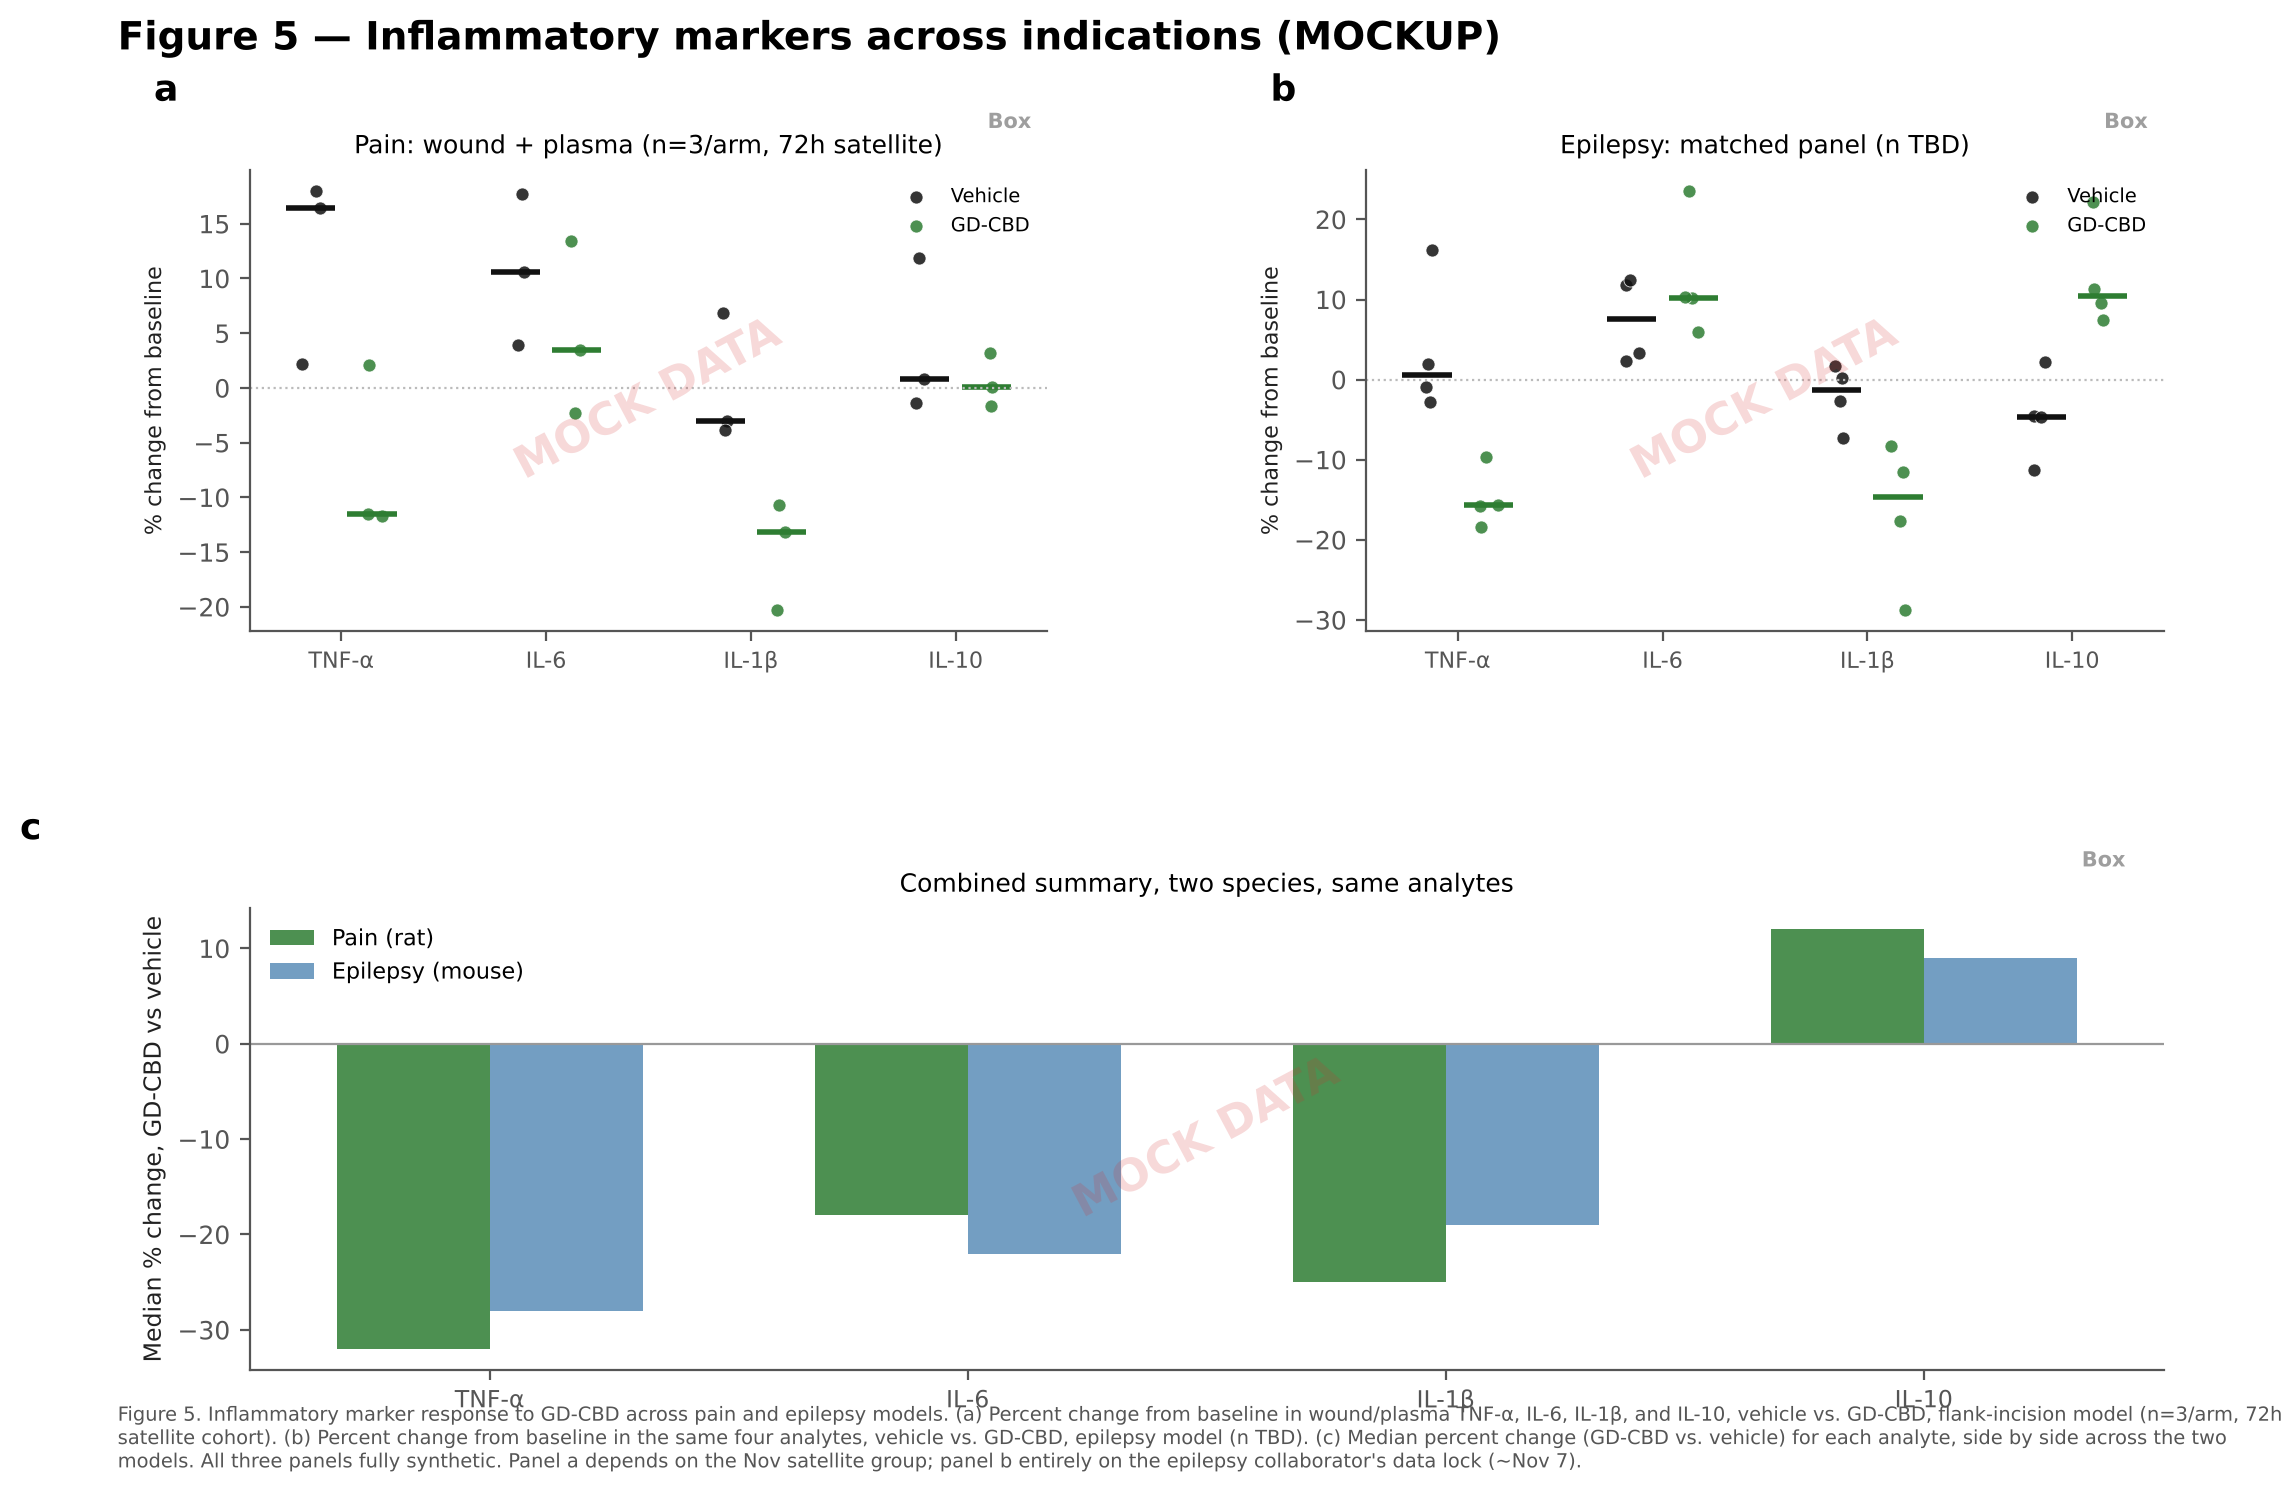
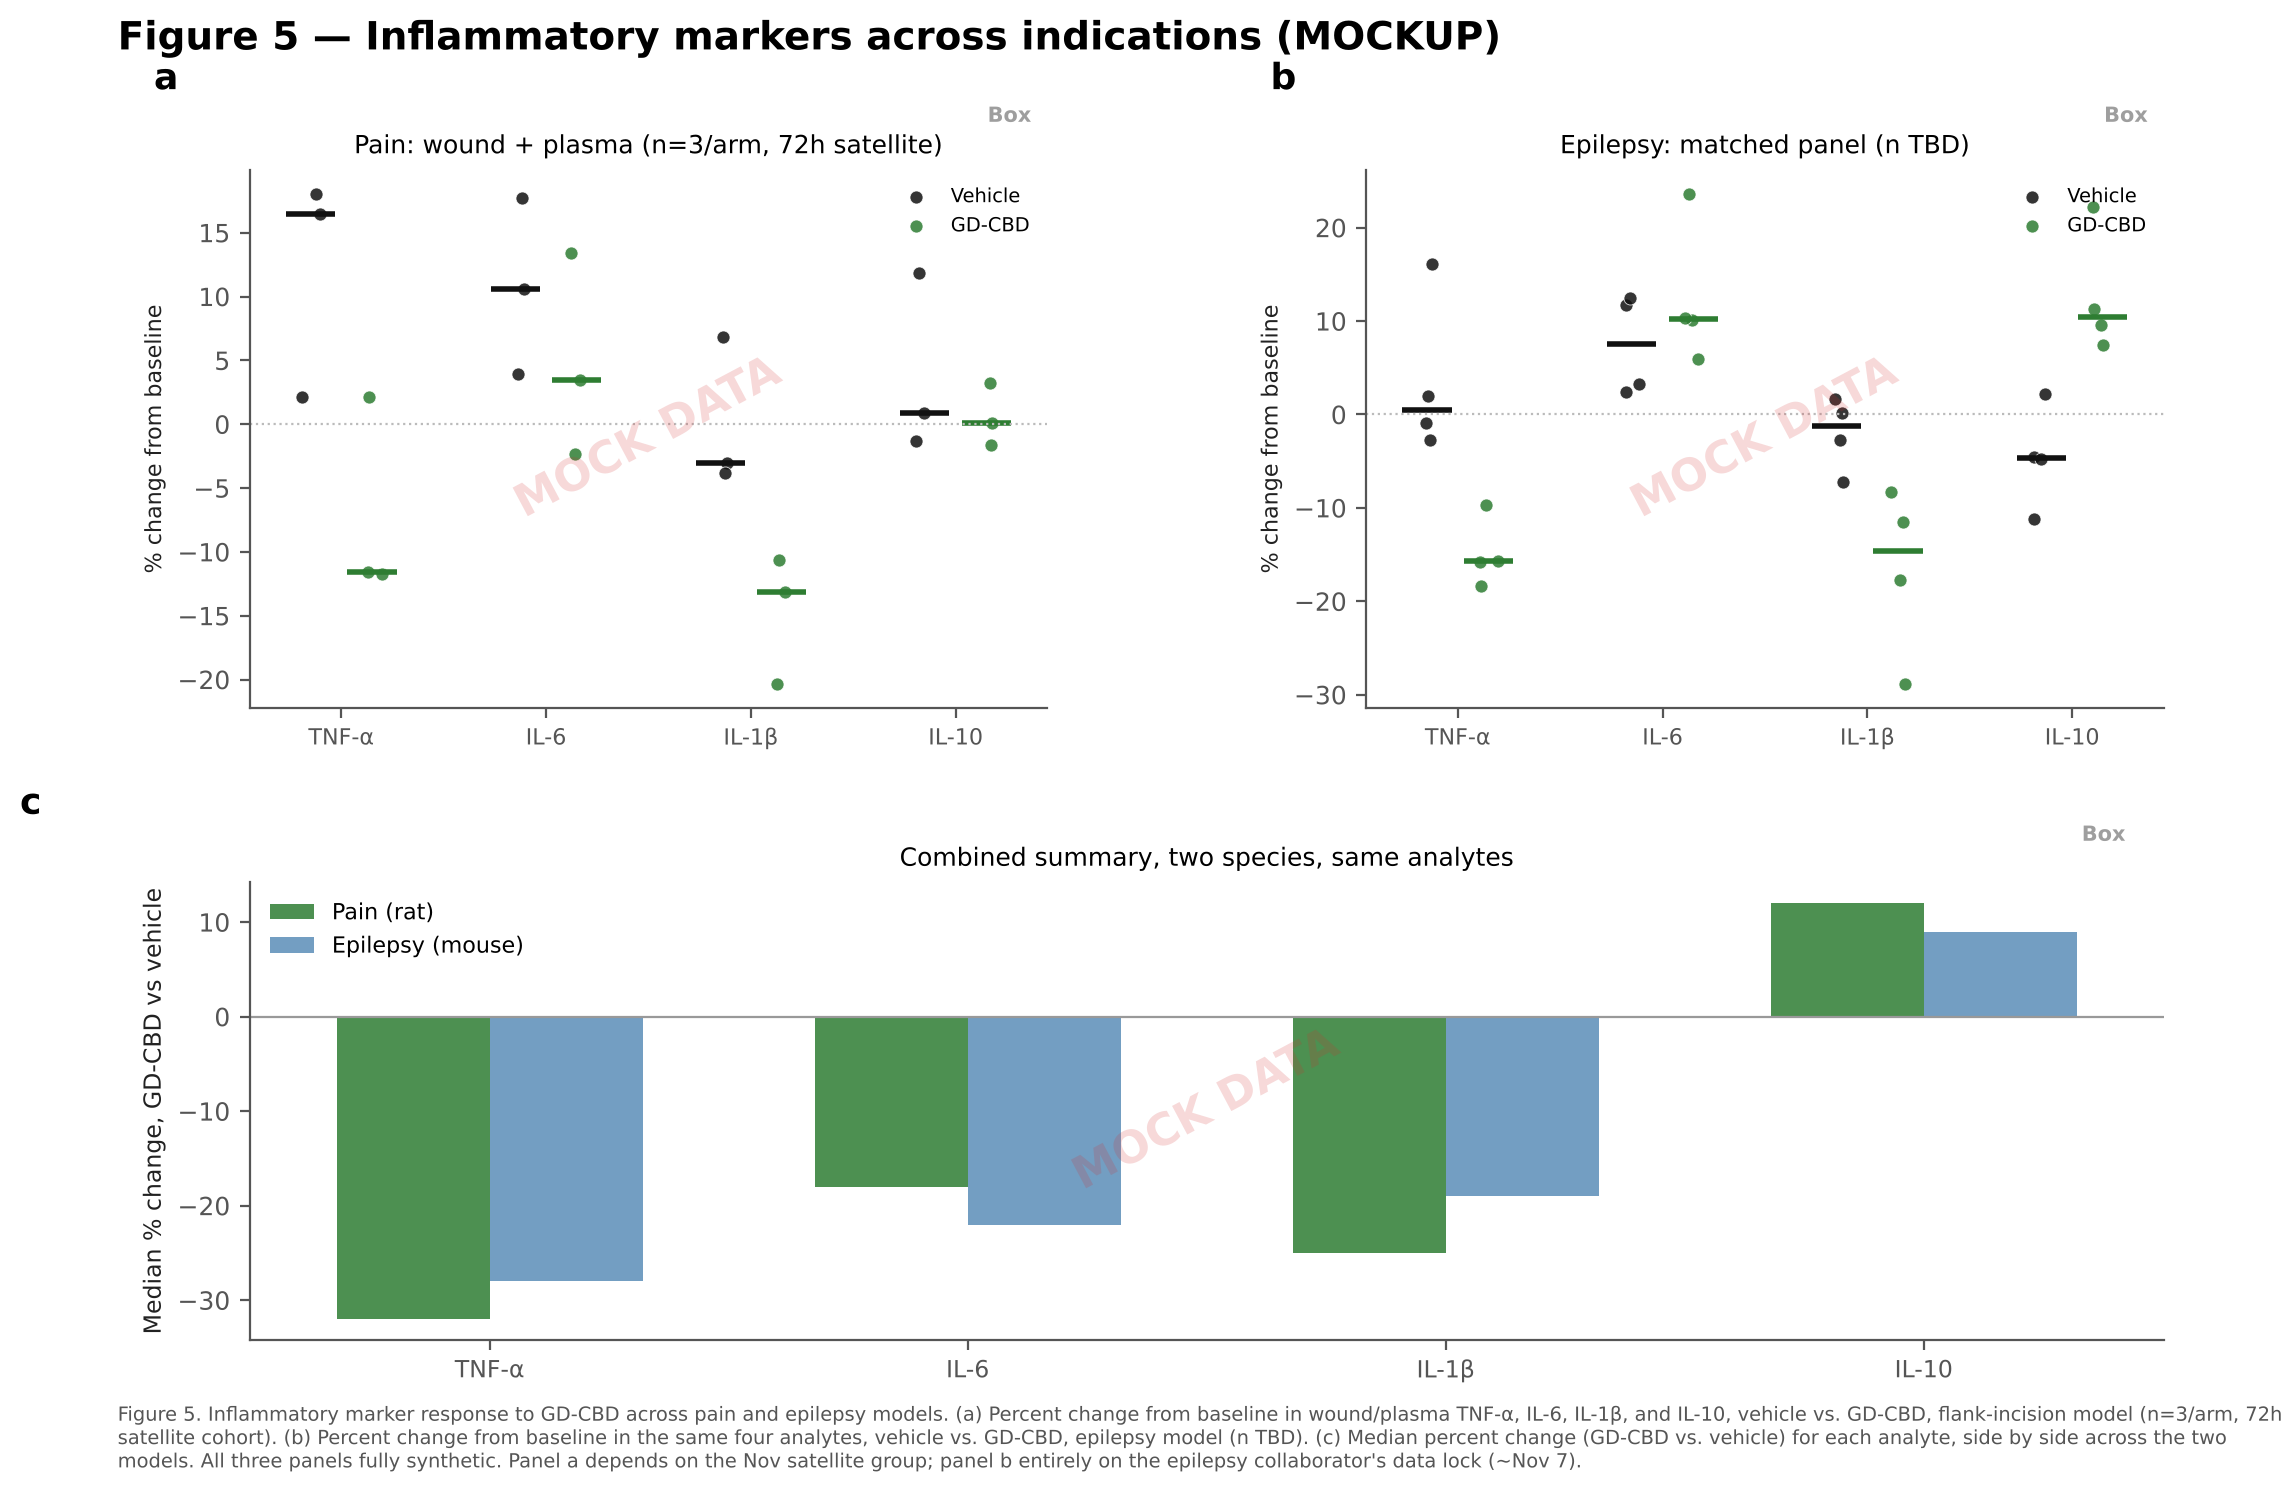
Tighten whitespace in Figures 1, 5, 6 (same tetris principle as Figure 3)
Figure 1 panel a (synthesis schematic) only used about 60% of its box's
width and height — the hand-placed boxes/arrows left large empty margins
on the right and top. Tightened the axes limits to the actual content
bounds instead of an arbitrary 0-10 x 0-4 canvas.

Figures 1, 5, and 6 all had oversized gaps between GridSpec rows
(hspace 0.5-0.6), inherited from the original box-layout template before
any panel had real content. Reduced hspace and, for Figure 5, gave the
shorter bottom row its own height_ratio instead of matching the taller
dot-plot row above it.

Claude-Session: https://claude.ai/code/session_01QzWRSRZ9CNkGodGiMwM5wp

diff --git a/figures/mockups/build_fig1_mock.py b/figures/mockups/build_fig1_mock.py
@@ -6,11 +6,11 @@ from mock_helpers import watermark, status_tag, panel_letter, RNG
 
 fig = plt.figure(figsize=(11, 8))
 fig.suptitle("Figure 1 — Chemistry and characterization of GD-CBD (MOCKUP)", fontsize=14, fontweight="bold", x=0.02, ha="left", y=0.98)
-gs = GridSpec(2, 2, figure=fig, hspace=0.5, wspace=0.35, top=0.89, bottom=0.17, left=0.08, right=0.95)
+gs = GridSpec(2, 2, figure=fig, hspace=0.35, wspace=0.35, top=0.89, bottom=0.17, left=0.08, right=0.95)
 
 # 1a: synthesis scheme - schematic diagram, not mock data (no numbers to fake)
 ax_a = fig.add_subplot(gs[0, 0])
-ax_a.set_xlim(0, 10); ax_a.set_ylim(0, 4); ax_a.axis("off")
+ax_a.set_xlim(0, 8.4); ax_a.set_ylim(0.25, 3.15); ax_a.axis("off")
 boxes = [("GD", 0.8), ("GD-linker", 3.6), ("CBD-azide", 3.6), ("GD-CBD", 7.2)]
 ys = [2.6, 2.6, 0.8, 1.7]
 labels_xy = [(0.8, 2.6), (3.6, 2.6), (3.6, 0.8), (7.2, 1.7)]

diff --git a/figures/mockups/build_fig5_mock.py b/figures/mockups/build_fig5_mock.py
@@ -5,7 +5,7 @@ from mock_helpers import watermark, status_tag, panel_letter, COLOR, RNG
 
 fig = plt.figure(figsize=(11, 7.5))
 fig.suptitle("Figure 5 — Inflammatory markers across indications (MOCKUP)", fontsize=14, fontweight="bold", x=0.02, ha="left", y=0.98)
-gs = GridSpec(2, 2, figure=fig, hspace=0.6, wspace=0.4, top=0.88, bottom=0.08, left=0.08, right=0.95)
+gs = GridSpec(2, 2, figure=fig, hspace=0.35, wspace=0.4, top=0.88, bottom=0.1, left=0.08, right=0.95, height_ratios=[1, 0.85])
 
 analytes = ["TNF-α", "IL-6", "IL-1β", "IL-10"]
 groups = ["Vehicle", "GD-CBD"]

diff --git a/figures/mockups/build_fig_bio_mock.py b/figures/mockups/build_fig_bio_mock.py
@@ -6,7 +6,7 @@ from mock_helpers import watermark, status_tag, panel_letter, empty_box, COLOR, 
 
 fig = plt.figure(figsize=(11, 7))
 fig.suptitle("Figure 6 — Biodistribution of Cy5-GD-CBD (MOCKUP)", fontsize=13.5, fontweight="bold", x=0.02, ha="left", y=0.98)
-gs = GridSpec(2, 2, figure=fig, hspace=0.55, wspace=0.35, top=0.88, bottom=0.16, left=0.08, right=0.95)
+gs = GridSpec(2, 2, figure=fig, hspace=0.4, wspace=0.3, top=0.88, bottom=0.16, left=0.08, right=0.95)
 
 # a: schematic - real design, Have
 ax_a = fig.add_subplot(gs[0, 0])
